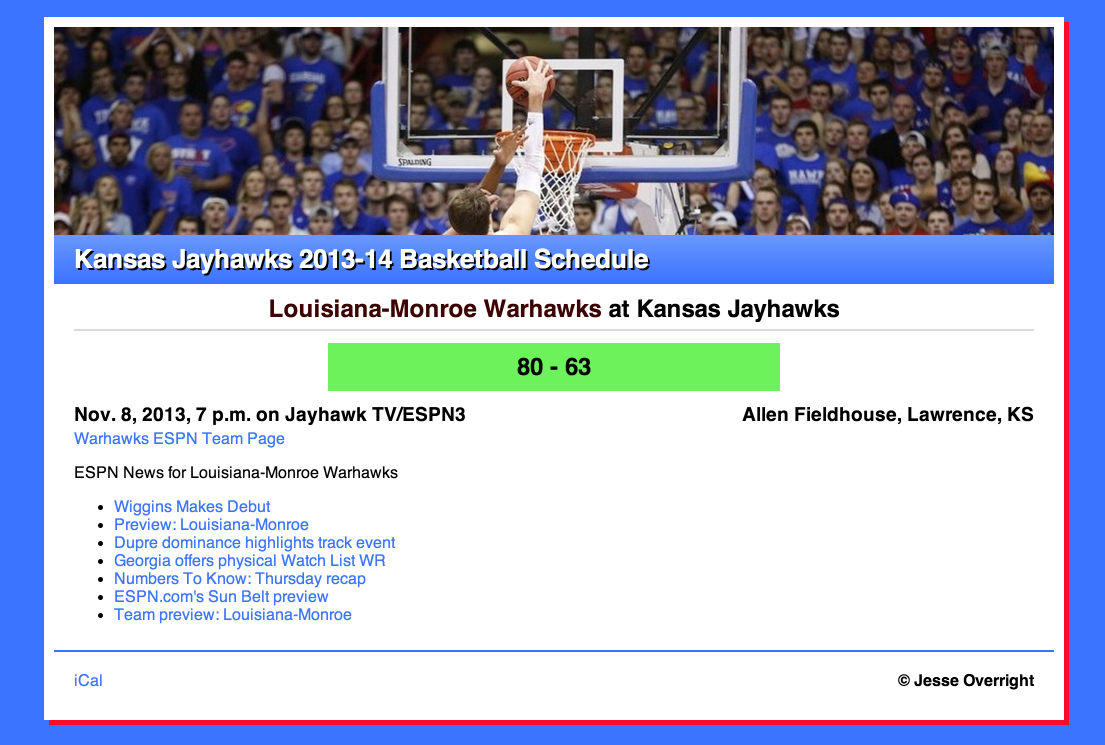
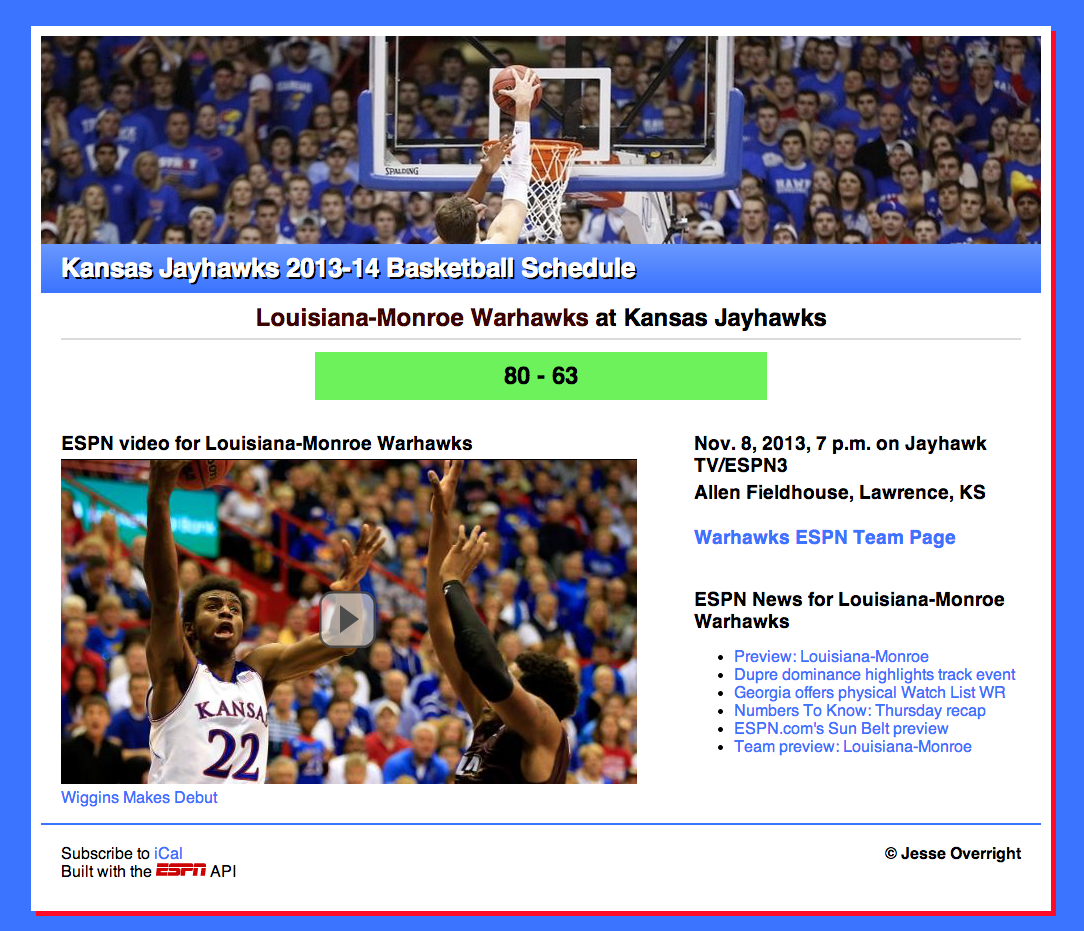
Updated README.md with new images

diff --git a/README.md b/README.md
@@ -1,11 +1,11 @@
 #Jayhawk Schedule
 
-This is a simple django app built to track the __Kansas Jayhawks 2013-14__ basketball schedule. It's rebuilt from the original [codeigniter project](https://github.com/jesseoverright/jayhawk-schedule/).
+This is a simple django app built to track the __Kansas Jayhawks 2013-14__ basketball schedule.  The __Kansas Jayhawks 2013-14 Basketball Schedule__ provides all the latest news and results for the Jayhawks season. It's rebuilt from the group up based on the original [codeigniter project](https://github.com/jesseoverright/jayhawk-schedule/).
 
 Main Features:
 
 - gives admin ability to create games, set opponent, location, tv info
-- takes advantage of the [ESPN API](http://developer.espn.com/docs) for team news, stats, and details
+- takes advantage of the [ESPN API](http://developer.espn.com/docs) for video, team news, stats, and details
 - generates a ical calendar feed
 - update results as games occur
 
@@ -15,4 +15,4 @@ The homepage displays the full list of games, including results, upcoming games,
 
 ## Team Pages
 ![Jayhawk Schedule Team Page](https://raw.github.com/jesseoverright/django-jayhawk-schedule/master/jayhawkschedule/static/images/team-page.png)
-Team pages take further advantage of the ESPN API to include ESPN Team page links, latest ESPN articles, and team colors.
+Team pages take further advantage of the ESPN API to include ESPN video, ESPN Team page links, latest ESPN articles, and team colors.
